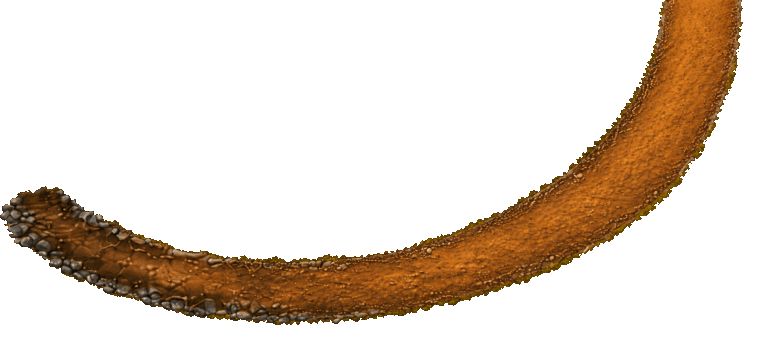
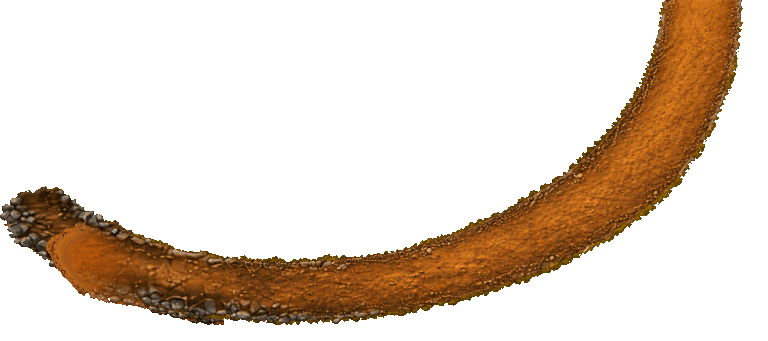
Refine Mossvein path connections

Changed region(s): [[0.0625, 0.6452, 0.3125, 0.9677]]

diff --git a/script.js b/script.js
@@ -4,7 +4,7 @@
   const canvas=document.getElementById('gameCanvas');
   const game=document.getElementById('game');
   const ctx=canvas.getContext('2d',{alpha:false});
-  const ASSET_VERSION='02612';
+  const ASSET_VERSION='02613';
   const MOONGLASS_SURFACE_BLEND=190;
   const MOONGLASS_GATE_TRANSITION_DURATION=1.8;
   const LIGHTING=Object.freeze({
@@ -217,7 +217,7 @@
   const buyChestCost=document.getElementById('buyChestCost');
   const baseModuleList=document.getElementById('baseModuleList');
 
-  const BUILD={version:'0.26.12',name:'NATURAL MINE PATH'};
+  const BUILD={version:'0.26.13',name:'PATH CONNECTIONS'};
   document.getElementById('buildVersion').textContent='v'+BUILD.version;
   document.getElementById('menuBuildVersion').textContent='EVER DEEPER v'+BUILD.version+' · '+BUILD.name;
 
@@ -2991,7 +2991,7 @@
 
   function drawMossveinMineApproach(){
     const image=SURFACE_ART.mossveinMinePath;if(!imageReady(image))return;
-    const topLeft=worldToScreen(125,750),width=700,height=200;if(topLeft.x>viewWidth||topLeft.y>viewHeight||topLeft.x+width<0||topLeft.y+height<0)return;
+    const topLeft=worldToScreen(125,728),width=700,height=200;if(topLeft.x>viewWidth||topLeft.y>viewHeight||topLeft.x+width<0||topLeft.y+height<0)return;
     ctx.drawImage(image,topLeft.x,topLeft.y,width,height);
   }
 
@@ -3565,7 +3565,7 @@
 
   window.__everDeeperTest={
     snapshot:()=>JSON.parse(JSON.stringify({
-      build:BUILD,state,scene:currentScene,depth:currentDepth,assetVersion:ASSET_VERSION,music:{asset:MUSIC_PATH.split('?')[0],volume:MUSIC_VOLUME,loop:true,started:musicStarted,enabled:audioSettings.music,effectsEnabled:audioSettings.effects},assetRendering:{stone:['node'],copper:['wall','node'],gold:['wall','node']},entranceAssetRendering:{mossMine:true,moonMine:true},surfaceAssetRendering:{mossveinGround:true,mainRoad:SURFACE_ROAD_PATHS,seamlessBiomeRoad:true,roadCrossfadeWidth:80,mossveinMineApproach:MOSSVEIN_MINE_PATH,mossveinMineApproachBounds:{x:125,y:750,w:700,h:200},mossveinMinePosition:{x:180,y:830},branchUnderMainRoad:true,legacyBakedMainRoad:false,legacyMossveinGrid:false,legacyMossveinPath:false,legacyMossveinDecorations:false},starterRendering:{sellStation:STARTER_PATHS.sellStation,forgeStation:STARTER_PATHS.forgeStation,storageChest:STARTER_PATHS.storageChest,wayfarerShop:STARTER_PATHS.wayfarerShop,treasureClosed:STARTER_PATHS.treasureClosed,treasureOpen:STARTER_PATHS.treasureOpen,groundDrops:DROP_PATHS,legacyCanvasStations:false,legacyMossveinChests:false,legacyStarterDrops:false},rootwoundRendering:{floor:ROOTWOUND_PATHS.floor,wall:ROOTWOUND_PATHS.wall,nodes:['rootiron','deepstone','ambercore','burrowsteel'],rootironWall:ROOTWOUND_PATHS.rootironWall,shaft:ROOTWOUND_PATHS.shaft,sellStation:ROOTWOUND_PATHS.sellStation,drillForge:ROOTWOUND_PATHS.drillForge,legacyFloorDecorations:false,legacyTerrainTexture:false,legacyDepthShaft:false,legacyDepthStations:false,legacyResourceNodes:false},
+      build:BUILD,state,scene:currentScene,depth:currentDepth,assetVersion:ASSET_VERSION,music:{asset:MUSIC_PATH.split('?')[0],volume:MUSIC_VOLUME,loop:true,started:musicStarted,enabled:audioSettings.music,effectsEnabled:audioSettings.effects},assetRendering:{stone:['node'],copper:['wall','node'],gold:['wall','node']},entranceAssetRendering:{mossMine:true,moonMine:true},surfaceAssetRendering:{mossveinGround:true,mainRoad:SURFACE_ROAD_PATHS,seamlessBiomeRoad:true,roadCrossfadeWidth:80,mossveinMineApproach:MOSSVEIN_MINE_PATH,mossveinMineApproachBounds:{x:125,y:728,w:700,h:200},mossveinMinePosition:{x:180,y:830},branchUnderMainRoad:true,naturalCaveOverlap:true,naturalRoadOverlap:true,legacyBakedMainRoad:false,legacyMossveinGrid:false,legacyMossveinPath:false,legacyMossveinDecorations:false},starterRendering:{sellStation:STARTER_PATHS.sellStation,forgeStation:STARTER_PATHS.forgeStation,storageChest:STARTER_PATHS.storageChest,wayfarerShop:STARTER_PATHS.wayfarerShop,treasureClosed:STARTER_PATHS.treasureClosed,treasureOpen:STARTER_PATHS.treasureOpen,groundDrops:DROP_PATHS,legacyCanvasStations:false,legacyMossveinChests:false,legacyStarterDrops:false},rootwoundRendering:{floor:ROOTWOUND_PATHS.floor,wall:ROOTWOUND_PATHS.wall,nodes:['rootiron','deepstone','ambercore','burrowsteel'],rootironWall:ROOTWOUND_PATHS.rootironWall,shaft:ROOTWOUND_PATHS.shaft,sellStation:ROOTWOUND_PATHS.sellStation,drillForge:ROOTWOUND_PATHS.drillForge,legacyFloorDecorations:false,legacyTerrainTexture:false,legacyDepthShaft:false,legacyDepthStations:false,legacyResourceNodes:false},
       surfaceMoonglassRendering:{ground:SURFACE_MOONGLASS_PATHS.ground,crystals:SURFACE_MOONGLASS_PATHS.crystals,bloomBed:SURFACE_MOONGLASS_PATHS.bloomBed,entrance:MINE_ENTRANCE_PATHS.moonMine,gateMark:STARTER_PATHS.moonglassGateMark,emberdeepSeal:STARTER_PATHS.emberdeepSeal,openBoundaryGatesRemoved:true,animatedGateTransition:true,smoothMossveinBlend:true,backgroundCrystalsDistinct:true,chests:{crystalCache:{closed:SURFACE_MOONGLASS_PATHS.crystalCacheClosed,open:SURFACE_MOONGLASS_PATHS.crystalCacheOpen},reliquary:{closed:SURFACE_MOONGLASS_PATHS.reliquaryClosed,open:SURFACE_MOONGLASS_PATHS.reliquaryOpen}},legacyGrid:false,legacyDecorations:false,legacyChests:false,legacyEntrance:false,legacyEmberdeepSeal:false},
       moonglassRendering:{surfaceGround:SURFACE_MOONGLASS_PATHS.ground,surfaceCrystals:SURFACE_MOONGLASS_PATHS.crystals,bloomBed:SURFACE_MOONGLASS_PATHS.bloomBed,entrance:MINE_ENTRANCE_PATHS.moonMine,gateMark:STARTER_PATHS.moonglassGateMark,emberdeepSeal:STARTER_PATHS.emberdeepSeal,openBoundaryGatesRemoved:true,animatedGateTransition:true,smoothMossveinBlend:true,backgroundCrystalsDistinct:true,chests:{crystalCache:{closed:SURFACE_MOONGLASS_PATHS.crystalCacheClosed,open:SURFACE_MOONGLASS_PATHS.crystalCacheOpen},reliquary:{closed:SURFACE_MOONGLASS_PATHS.reliquaryClosed,open:SURFACE_MOONGLASS_PATHS.reliquaryOpen}},floor:MOONGLASS_PATHS.floor,wall:MOONGLASS_PATHS.wall,routeMarker:MOONGLASS_PATHS.routeMarker,pocket:MOONGLASS_PATHS.pocket,cache:MOONGLASS_PATHS.cache,shrine:MOONGLASS_PATHS.shrine,nodes:{moonglass:MOONGLASS_PATHS.moonglassNode,starshard:MOONGLASS_PATHS.starshardNode},wallHints:{moonglass:MOONGLASS_PATHS.moonglassWall,starshard:MOONGLASS_PATHS.starshardWall},barriers:{moon_prism_gate:MOONGLASS_PATHS.prismFault,moon_star_lock:MOONGLASS_PATHS.starGeode},drops:{moonglass:DROP_PATHS.moonglass,starshard:DROP_PATHS.starshard},legacySurfaceDecorations:false,legacyMineFloor:false,legacyMineTerrain:false,legacyMineWalls:false,legacyBarriers:false,legacyPocketRewards:false,legacyResourceNodes:false},
       prismaticRendering:{floor:PRISMATIC_PATHS.floor,wall:PRISMATIC_PATHS.wall,shaft:PRISMATIC_PATHS.shaft,sellStation:PRISMATIC_PATHS.sellStation,drillForge:PRISMATIC_PATHS.drillForge,pocket:PRISMATIC_PATHS.pocket,cache:PRISMATIC_PATHS.cache,shrine:PRISMATIC_PATHS.shrine,nodes:{prismite:PRISMATIC_PATHS.prismiteNode,deepstone:ROOTWOUND_PATHS.deepstone,lunacore:PRISMATIC_PATHS.lunacoreNode,phasecrystal:PRISMATIC_PATHS.phasecrystalNode},wallHints:{prismite:PRISMATIC_PATHS.prismiteWall,deepstone:PRISMATIC_PATHS.deepstoneWall,lunacore:PRISMATIC_PATHS.lunacoreWall,phasecrystal:PRISMATIC_PATHS.phasecrystalWall},drops:{deepstone:DROP_PATHS.deepstone,prismite:DROP_PATHS.prismite,lunacore:DROP_PATHS.lunacore,phasecrystal:DROP_PATHS.phasecrystal},legacyFloorDecorations:false,legacyTerrainTexture:false,legacyDepthShaft:false,legacyDepthStations:false,legacyPocketRewards:false,legacyResourceNodes:false},

diff --git a/tests/runtime-smoke.js b/tests/runtime-smoke.js
@@ -20,12 +20,12 @@ function auditBrandRemoval(directory){
 auditBrandRemoval(repositoryRoot);
 assert.doesNotMatch(source,/drawPlayerDrillLayer|drawPlayerCropAtGrip|offhandCrop|drillRearAnchor|assets\/tools\/drill-/);
 assert.match(source,/fullDrillComposites:true,legacyDrillLimbCrops:false/);
-assert.equal(latest.version,'02612');
+assert.equal(latest.version,'02613');
 assert.match(html,/version\.json\?t=/);
 assert.match(html,/cache:'no-store'/);
-assert.match(html,/style\.css\?v=02612/);
-assert.match(html,/script\.js\?v=02612/);
-assert.match(html,/assets\/branding\/ever-deeper-logo\.png\?v=02612/);
+assert.match(html,/style\.css\?v=02613/);
+assert.match(html,/script\.js\?v=02613/);
+assert.match(html,/assets\/branding\/ever-deeper-logo\.png\?v=02613/);
 assert.match(html,/<title>Ever Deeper<\/title>/);
 assert.match(source,/MUSIC_PATH='assets\/audio\/ever-deeper-drift-loop\.mp3\?v='/);
 assert.match(source,/backgroundMusic\.loop=true/);
@@ -147,18 +147,18 @@ function createRuntime(){
 
 let runtime=createRuntime();
 let api=runtime.api;
-assert.equal(api.snapshot().build.version,'0.26.12');
-assert.equal(api.snapshot().build.name,'NATURAL MINE PATH');
-assert.equal(runtime.elements.get('buildVersion').textContent,'v0.26.12');
-assert.equal(api.snapshot().assetVersion,'02612');
+assert.equal(api.snapshot().build.version,'0.26.13');
+assert.equal(api.snapshot().build.name,'PATH CONNECTIONS');
+assert.equal(runtime.elements.get('buildVersion').textContent,'v0.26.13');
+assert.equal(api.snapshot().assetVersion,'02613');
 assert.equal(JSON.stringify(api.snapshot().music),JSON.stringify({asset:'assets/audio/ever-deeper-drift-loop.mp3',volume:1,loop:true,started:false,enabled:true,effectsEnabled:true}));
-assert.equal(JSON.stringify(api.startMusic()),JSON.stringify({src:'assets/audio/ever-deeper-drift-loop.mp3?v=02612',volume:1,loop:true,paused:false}));
+assert.equal(JSON.stringify(api.startMusic()),JSON.stringify({src:'assets/audio/ever-deeper-drift-loop.mp3?v=02613',volume:1,loop:true,paused:false}));
 assert.equal(api.setAudioSetting('music',false),false);assert.equal(api.snapshot().music.enabled,false);assert.equal(api.snapshot().music.started,false);
 assert.equal(api.setAudioSetting('effects',false),false);assert.equal(api.snapshot().music.effectsEnabled,false);
 assert.equal(api.setAudioSetting('music',true),true);assert.equal(api.setAudioSetting('effects',true),true);
 assert.equal(JSON.stringify(api.snapshot().assetRendering),JSON.stringify({stone:['node'],copper:['wall','node'],gold:['wall','node']}));
 assert.equal(JSON.stringify(api.snapshot().entranceAssetRendering),JSON.stringify({mossMine:true,moonMine:true}));
-assert.equal(JSON.stringify(api.snapshot().surfaceAssetRendering),JSON.stringify({mossveinGround:true,mainRoad:{mossvein:'assets/surface/road-mossvein.png',moonglass:'assets/surface/road-moonglass.png',emberdeep:'assets/surface/road-emberdeep.png',starfall:'assets/surface/road-starfall.png'},seamlessBiomeRoad:true,roadCrossfadeWidth:80,mossveinMineApproach:'assets/surface/mossvein-mine-path.png',mossveinMineApproachBounds:{x:125,y:750,w:700,h:200},mossveinMinePosition:{x:180,y:830},branchUnderMainRoad:true,legacyBakedMainRoad:false,legacyMossveinGrid:false,legacyMossveinPath:false,legacyMossveinDecorations:false}));
+assert.equal(JSON.stringify(api.snapshot().surfaceAssetRendering),JSON.stringify({mossveinGround:true,mainRoad:{mossvein:'assets/surface/road-mossvein.png',moonglass:'assets/surface/road-moonglass.png',emberdeep:'assets/surface/road-emberdeep.png',starfall:'assets/surface/road-starfall.png'},seamlessBiomeRoad:true,roadCrossfadeWidth:80,mossveinMineApproach:'assets/surface/mossvein-mine-path.png',mossveinMineApproachBounds:{x:125,y:728,w:700,h:200},mossveinMinePosition:{x:180,y:830},branchUnderMainRoad:true,naturalCaveOverlap:true,naturalRoadOverlap:true,legacyBakedMainRoad:false,legacyMossveinGrid:false,legacyMossveinPath:false,legacyMossveinDecorations:false}));
 assert.equal(JSON.stringify(api.snapshot().starterRendering),JSON.stringify({sellStation:'assets/surface/assay-station.png',forgeStation:'assets/surface/forge-station.png',storageChest:'assets/surface/storage-chest.png',wayfarerShop:'assets/surface/wayfarer-shop.png',treasureClosed:'assets/surface/treasure-cache-closed.png',treasureOpen:'assets/surface/treasure-cache-open.png',groundDrops:{stone:'assets/drops/stone-drop.png',copper:'assets/drops/copper-drop.png',gold:'assets/drops/gold-drop.png',moonglass:'assets/drops/moonglass-drop.png',starshard:'assets/drops/starshard-drop.png',deepstone:'assets/drops/deepstone-drop.png',prismite:'assets/drops/prismite-drop.png',lunacore:'assets/drops/lunacore-drop.png',phasecrystal:'assets/drops/phasecrystal-drop.png'},legacyCanvasStations:false,legacyMossveinChests:false,legacyStarterDrops:false}));
 assert.equal(JSON.stringify(api.snapshot().starterGateRendering),JSON.stringify({moonglassGate:'assets/surface/moonglass-gate.png',moonglassGateMark:'assets/surface/moonglass-gate-mark.png',animatedMoonglassTransition:true,openWorldGatesRemoved:true,legacyStarterGate:false}));
 assert.equal(JSON.stringify(api.snapshot().rootwoundRendering),JSON.stringify({floor:'assets/rootwound/floor.png',wall:'assets/rootwound/wall.png',nodes:['rootiron','deepstone','ambercore','burrowsteel'],rootironWall:'assets/rootwound/rootiron-wall.png',shaft:'assets/rootwound/depth-shaft.png',sellStation:'assets/rootwound/sell-station.png',drillForge:'assets/rootwound/drill-forge.png',legacyFloorDecorations:false,legacyTerrainTexture:false,legacyDepthShaft:false,legacyDepthStations:false,legacyResourceNodes:false}));

diff --git a/tests/browser/mining-loop.spec.js b/tests/browser/mining-loop.spec.js
@@ -1059,10 +1059,10 @@ test('expanded mine depths use lazy terrain chunks and a following camera',async
   await freshGame(page);
   await page.evaluate(()=>window.__everDeeperTest.enterMine('mossMine'));
   let snapshot=await page.evaluate(()=>window.__everDeeperTest.snapshot());
-  expect(snapshot.build).toEqual({version:'0.26.12',name:'NATURAL MINE PATH'});
-  expect(snapshot.assetVersion).toBe('02612');
+  expect(snapshot.build).toEqual({version:'0.26.13',name:'PATH CONNECTIONS'});
+  expect(snapshot.assetVersion).toBe('02613');
   expect(snapshot.entranceAssetRendering).toEqual({mossMine:true,moonMine:true});
-  expect(snapshot.surfaceAssetRendering).toEqual({mossveinGround:true,mainRoad:{mossvein:'assets/surface/road-mossvein.png',moonglass:'assets/surface/road-moonglass.png',emberdeep:'assets/surface/road-emberdeep.png',starfall:'assets/surface/road-starfall.png'},seamlessBiomeRoad:true,roadCrossfadeWidth:80,mossveinMineApproach:'assets/surface/mossvein-mine-path.png',mossveinMineApproachBounds:{x:125,y:750,w:700,h:200},mossveinMinePosition:{x:180,y:830},branchUnderMainRoad:true,legacyBakedMainRoad:false,legacyMossveinGrid:false,legacyMossveinPath:false,legacyMossveinDecorations:false});
+  expect(snapshot.surfaceAssetRendering).toEqual({mossveinGround:true,mainRoad:{mossvein:'assets/surface/road-mossvein.png',moonglass:'assets/surface/road-moonglass.png',emberdeep:'assets/surface/road-emberdeep.png',starfall:'assets/surface/road-starfall.png'},seamlessBiomeRoad:true,roadCrossfadeWidth:80,mossveinMineApproach:'assets/surface/mossvein-mine-path.png',mossveinMineApproachBounds:{x:125,y:728,w:700,h:200},mossveinMinePosition:{x:180,y:830},branchUnderMainRoad:true,naturalCaveOverlap:true,naturalRoadOverlap:true,legacyBakedMainRoad:false,legacyMossveinGrid:false,legacyMossveinPath:false,legacyMossveinDecorations:false});
   expect(snapshot.starterRendering).toEqual({sellStation:'assets/surface/assay-station.png',forgeStation:'assets/surface/forge-station.png',storageChest:'assets/surface/storage-chest.png',wayfarerShop:'assets/surface/wayfarer-shop.png',treasureClosed:'assets/surface/treasure-cache-closed.png',treasureOpen:'assets/surface/treasure-cache-open.png',groundDrops:{stone:'assets/drops/stone-drop.png',copper:'assets/drops/copper-drop.png',gold:'assets/drops/gold-drop.png',moonglass:'assets/drops/moonglass-drop.png',starshard:'assets/drops/starshard-drop.png',deepstone:'assets/drops/deepstone-drop.png',prismite:'assets/drops/prismite-drop.png',lunacore:'assets/drops/lunacore-drop.png',phasecrystal:'assets/drops/phasecrystal-drop.png'},legacyCanvasStations:false,legacyMossveinChests:false,legacyStarterDrops:false});
   expect(snapshot.starterGateRendering).toEqual({moonglassGate:'assets/surface/moonglass-gate.png',moonglassGateMark:'assets/surface/moonglass-gate-mark.png',animatedMoonglassTransition:true,openWorldGatesRemoved:true,legacyStarterGate:false});
   expect(snapshot.discoveryRendering).toEqual({crystalPocketAsset:'assets/mossvein/magic-crystal-pocket.png',cacheAsset:'assets/mossvein/buried-cache.png',shrineAsset:'assets/mossvein/mining-rush-shrine.png',legacyCavernRings:false,legacyMossveinPocketRewards:false,biomeGlow:true});
@@ -1083,11 +1083,11 @@ test('expanded mine depths use lazy terrain chunks and a following camera',async
 
 test('the exact build version is always visible in the game HUD',async({page})=>{
   await freshGame(page);
-  await expect(page.locator('#buildVersion')).toHaveText('v0.26.12');
+  await expect(page.locator('#buildVersion')).toHaveText('v0.26.13');
   await expect(page.locator('.brand-logo')).toHaveAttribute('alt','Ever Deeper');
   await expect(page.locator('.brand-logo')).toHaveJSProperty('complete',true);
   await page.locator('#menuButton').click();
-  await expect(page.locator('#menuBuildVersion')).toHaveText('EVER DEEPER v0.26.12 · NATURAL MINE PATH');
+  await expect(page.locator('#menuBuildVersion')).toHaveText('EVER DEEPER v0.26.13 · PATH CONNECTIONS');
 });
 
 test('settings opens first and keeps audio choices separate from stats',async({page})=>{
@@ -1413,11 +1413,11 @@ test('Rootwound Depth 2 uses the complete production asset set',async({page})=>{
   expect(art.every(asset=>asset.width>=300&&asset.height>=300)).toBe(true);
 });
 
-test('v0.26.12 exposes the complete Moonglass and Prismatic production contracts',async({page})=>{
+test('v0.26.13 exposes the complete Moonglass and Prismatic production contracts',async({page})=>{
   await freshGame(page);
   const snapshot=await page.evaluate(()=>window.__everDeeperTest.snapshot());
-  expect(snapshot.build.version).toBe('0.26.12');
-  expect(snapshot.assetVersion).toBe('02612');
+  expect(snapshot.build.version).toBe('0.26.13');
+  expect(snapshot.assetVersion).toBe('02613');
   expect(snapshot.surfaceMoonglassRendering).toEqual(SURFACE_MOONGLASS_RENDERING);
   expect(snapshot.moonglassRendering).toEqual(MOONGLASS_RENDERING);
   expect(snapshot.prismaticRendering).toEqual(PRISMATIC_RENDERING);

diff --git a/index.html b/index.html
@@ -26,16 +26,16 @@
       window.addEventListener('pageshow',event=>{if(event.persisted)checkLatest()});
     })();
   </script>
-  <link rel="preload" as="image" href="assets/branding/ever-deeper-logo.png?v=02612">
-  <link rel="stylesheet" href="style.css?v=02612">
+  <link rel="preload" as="image" href="assets/branding/ever-deeper-logo.png?v=02613">
+  <link rel="stylesheet" href="style.css?v=02613">
 </head>
 <body>
   <main id="game" aria-label="Ever Deeper mining game">
     <header class="topbar">
       <div class="brand" aria-label="Ever Deeper">
-        <img class="brand-logo" src="assets/branding/ever-deeper-logo.png?v=02612" alt="Ever Deeper">
+        <img class="brand-logo" src="assets/branding/ever-deeper-logo.png?v=02613" alt="Ever Deeper">
         <div class="brand-meta">
-          <span id="buildVersion">v0.26.12</span>
+          <span id="buildVersion">v0.26.13</span>
           <small id="areaName">MOSSVEIN QUARRY</small>
         </div>
       </div>
@@ -142,7 +142,7 @@
     <div id="menuShade" class="menu-shade" hidden>
       <section class="menu-card" role="dialog" aria-modal="true" aria-labelledby="menuTitle">
         <header class="menu-header">
-          <div><span id="menuBuildVersion">EVER DEEPER v0.26.12 · NATURAL MINE PATH</span><h2 id="menuTitle">Settings</h2></div>
+          <div><span id="menuBuildVersion">EVER DEEPER v0.26.13 · PATH CONNECTIONS</span><h2 id="menuTitle">Settings</h2></div>
           <button id="menuCloseButton" class="menu-close" type="button" aria-label="Close settings">×</button>
         </header>
         <nav class="menu-tabs" aria-label="Game menu">
@@ -188,6 +188,6 @@
       </section>
     </div>
   </main>
-  <script src="script.js?v=02612"></script>
+  <script src="script.js?v=02613"></script>
 </body>
 </html>

diff --git a/tests/browser/release-branding.spec.js b/tests/browser/release-branding.spec.js
@@ -12,14 +12,14 @@ test('Ever Deeper release branding is complete and mobile-safe',async({page})=>{
   const logo=page.locator('.brand-logo');
   await expect(logo).toBeVisible();
   await expect(logo).toHaveAttribute('alt','Ever Deeper');
-  await expect(logo).toHaveAttribute('src','assets/branding/ever-deeper-logo.png?v=02612');
+  await expect(logo).toHaveAttribute('src','assets/branding/ever-deeper-logo.png?v=02613');
   const logoState=await logo.evaluate(image=>({complete:image.complete,width:image.naturalWidth,height:image.naturalHeight,bounds:image.getBoundingClientRect().toJSON()}));
   expect(logoState).toMatchObject({complete:true,width:800,height:297});
   expect(logoState.bounds.width).toBeGreaterThanOrEqual(124);
   expect(logoState.bounds.right).toBeLessThanOrEqual(await page.evaluate(()=>innerWidth));
 
-  await expect(page.locator('#buildVersion')).toHaveText('v0.26.12');
-  await expect(page.locator('#menuBuildVersion')).toHaveText('EVER DEEPER v0.26.12 · NATURAL MINE PATH');
+  await expect(page.locator('#buildVersion')).toHaveText('v0.26.13');
+  await expect(page.locator('#menuBuildVersion')).toHaveText('EVER DEEPER v0.26.13 · PATH CONNECTIONS');
   const release=await page.evaluate(()=>{
     const api=window.__everDeeperTest;
     api.reset();api.save();
@@ -33,7 +33,7 @@ test('Ever Deeper release branding is complete and mobile-safe',async({page})=>{
     };
   });
   expect(release).toEqual({
-    build:{version:'0.26.12',name:'NATURAL MINE PATH'},
+    build:{version:'0.26.13',name:'PATH CONNECTIONS'},
     music:'assets/audio/ever-deeper-drift-loop.mp3',
     retiredMarkup:false,
     retiredStorage:false,

diff --git a/README.md b/README.md
@@ -1,6 +1,6 @@
 # Ever Deeper
 
-Current build: **Ever Deeper v0.26.12 - Natural Mine Path**
+Current build: **Ever Deeper v0.26.13 - Path Connections**
 
 Moonglass now has a complete production-art pass across the surface biome, mine portal, chests, labyrinth barriers and hidden chambers, plus the full Prismatic Depths loop with its own portal, stations, resources, wall hints, drops, and Phase Crystal drill gate.
 
